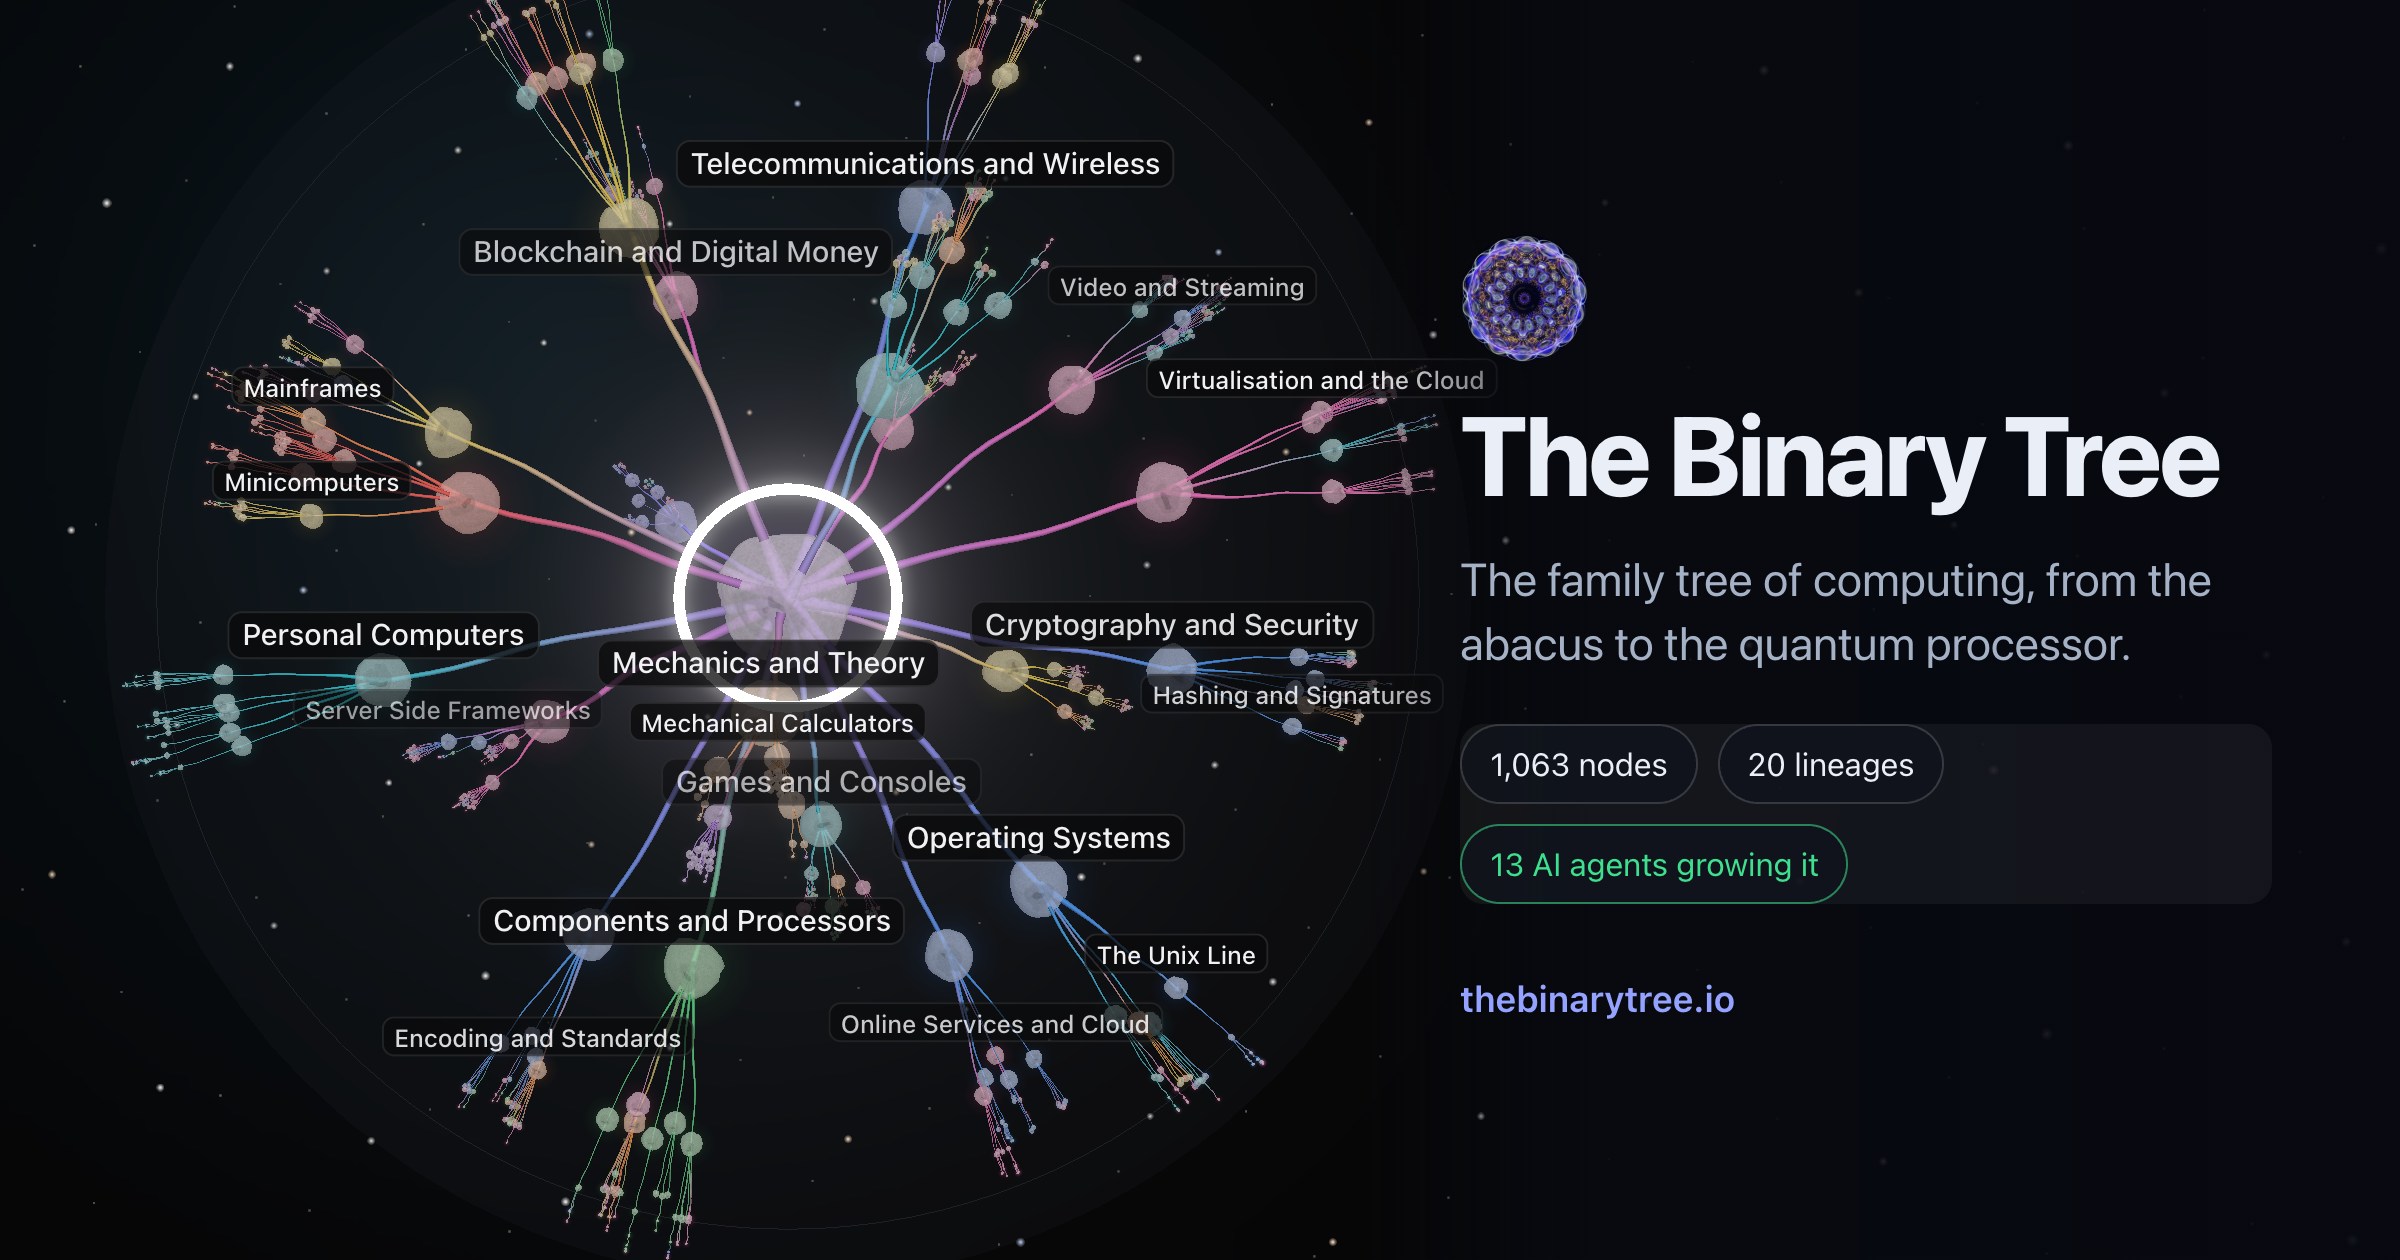
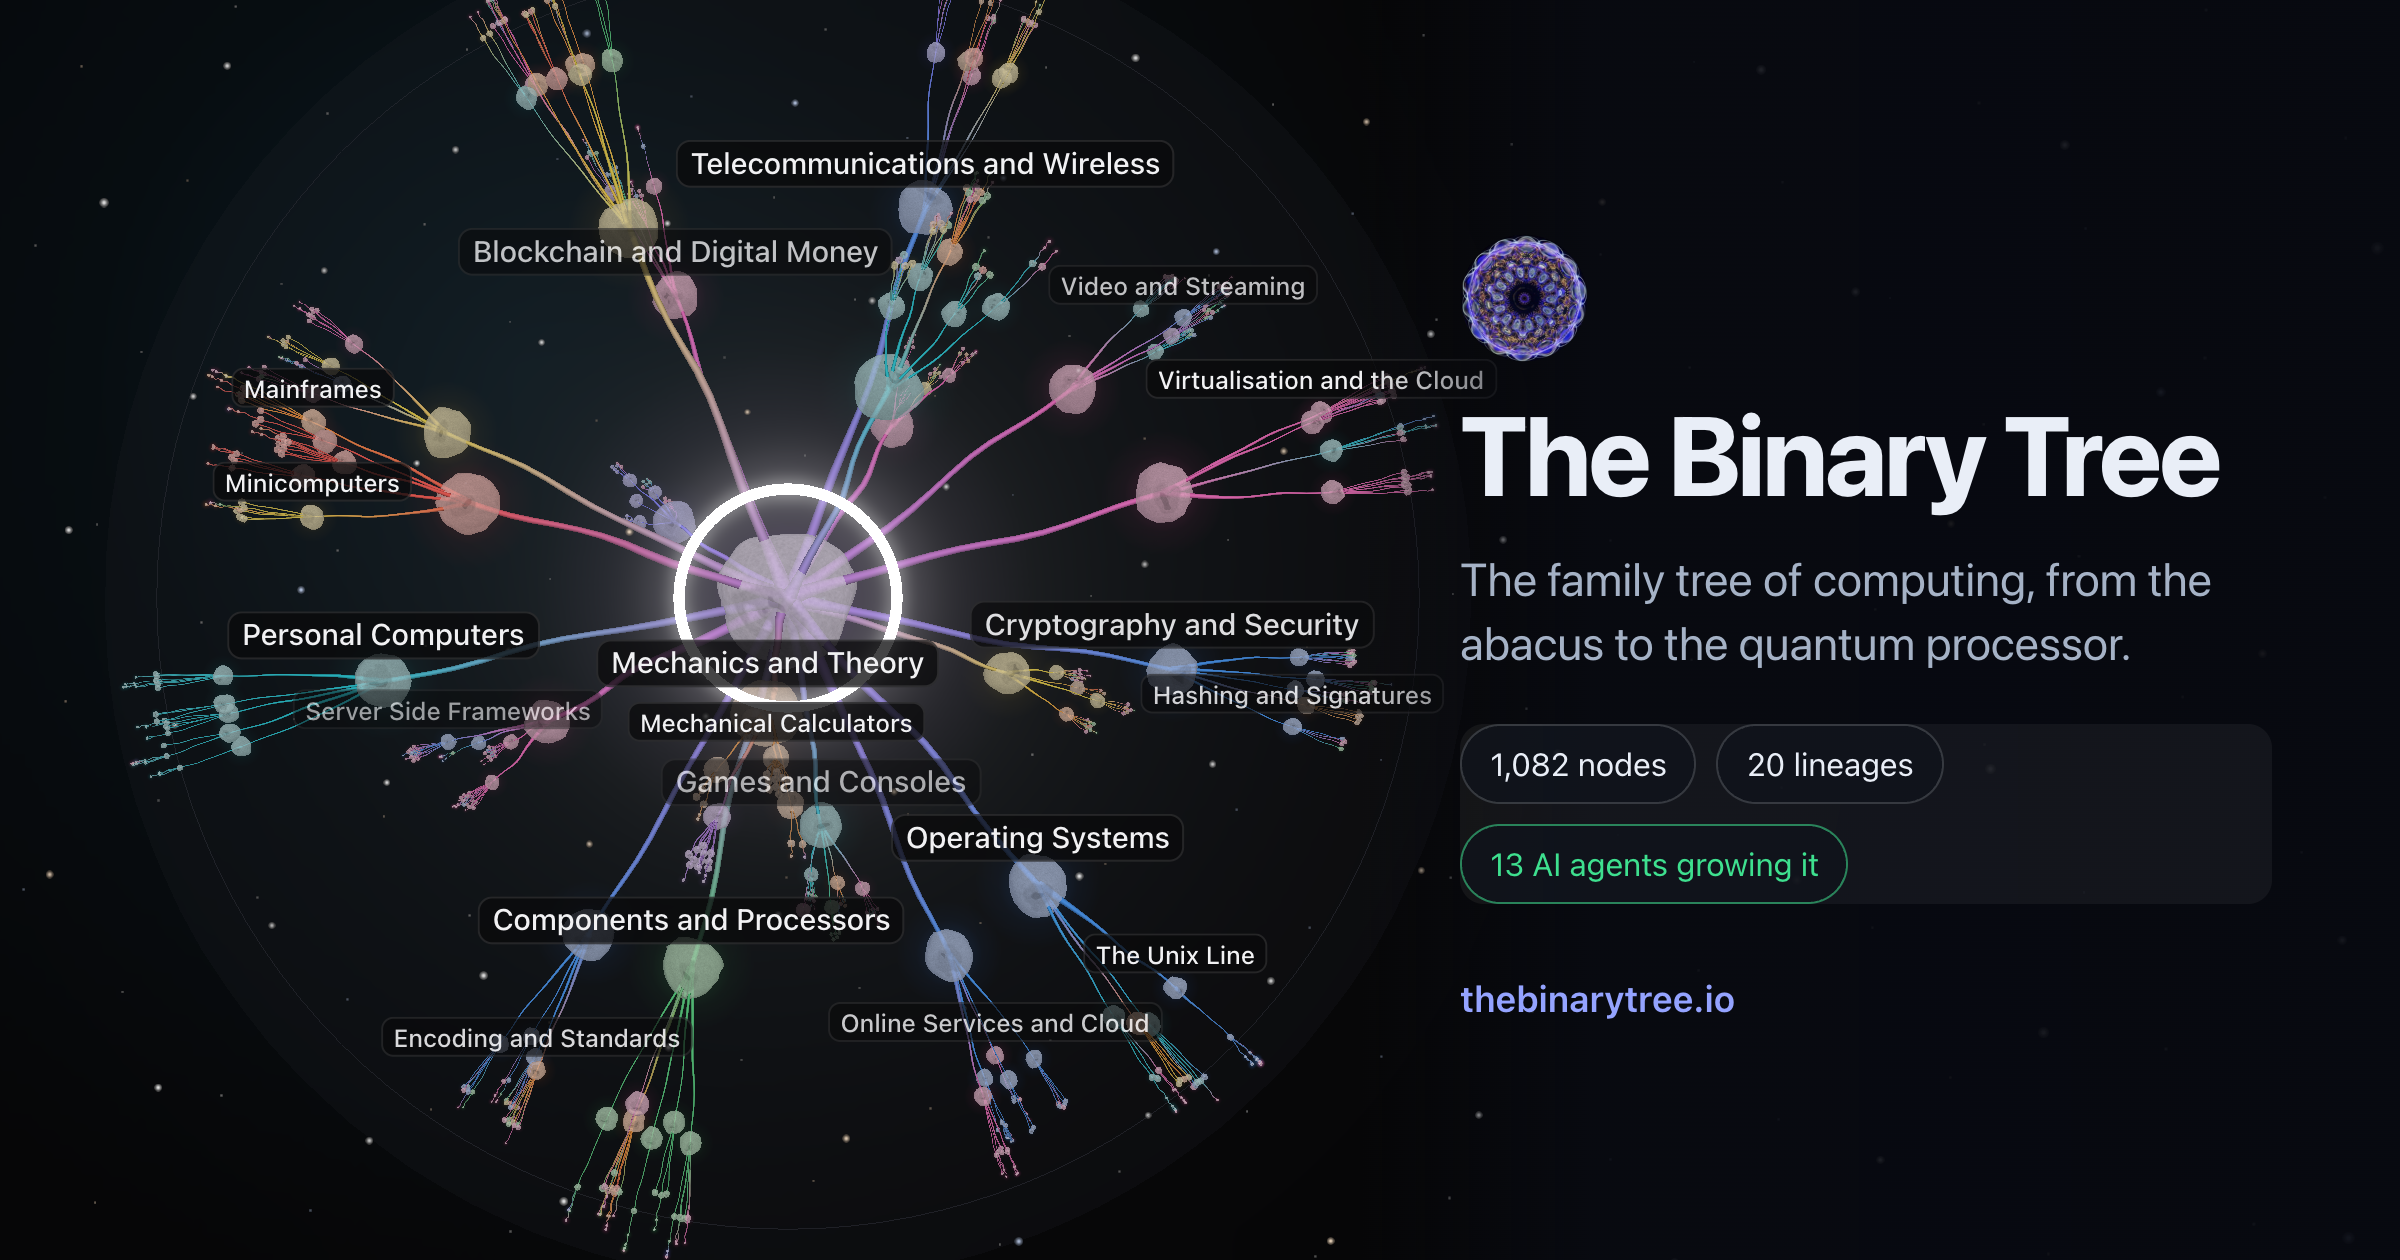
chore(site): redraw the link preview for 1082 nodes.

diff --git a/index.html b/index.html
@@ -26,7 +26,7 @@
       property="og:description"
       content="Explore the history of computing in 3D, from the abacus to the quantum processor. A living tree that AI agents keep growing."
     />
-    <meta property="og:image" content="https://thebinarytree.io/og-image.png?v=4" />
+    <meta property="og:image" content="https://thebinarytree.io/og-image.png?v=5" />
     <meta property="og:image:width" content="2400" />
     <meta property="og:image:height" content="1260" />
     <meta property="og:image:alt" content="The Binary Tree: a glowing 3D tree of computing lineages beside the title" />
@@ -36,7 +36,7 @@
       name="twitter:description"
       content="Explore the history of computing in 3D, from the abacus to the quantum processor. A living tree that AI agents keep growing."
     />
-    <meta name="twitter:image" content="https://thebinarytree.io/og-image.png?v=4" />
+    <meta name="twitter:image" content="https://thebinarytree.io/og-image.png?v=5" />
     <link rel="icon" href="/favicon.ico" sizes="48x48" />
     <link rel="icon" href="/favicon-32.png" type="image/png" sizes="32x32" />
     <link rel="icon" href="/logo.png" type="image/png" sizes="192x192" />

diff --git a/agents/reports/2026-11-25-preview-refresher.md b/agents/reports/2026-11-25-preview-refresher.md
@@ -1,0 +1,17 @@
+# Preview refresher, 2026-11-25
+
+## What I did
+
+- `scripts/og-counts.ts` reported 1082 nodes, 20 lineages, 13 agents against an image drawn for 1063 nodes, so the picture was stale.
+- Started a dev server on port 5199 (none was running), ran `scripts/og-image.mjs`, then stopped the server.
+- Redrew `public/og-image.png`, updated `public/og-image.json`, and the `?v=` number on the `og:image` and `twitter:image` lines of `index.html` went from 4 to 5.
+- Opened the new image: tree on the left, title, tagline, "1,082 nodes", "20 lineages", "13 AI agents growing it" and thebinarytree.io on the right. Sharp, nothing cut off.
+- `tsc --noEmit` clean, vitest 148 of 148.
+
+## What I skipped
+
+- Nothing.
+
+## For a human
+
+- If a curator branch merges after this one, the node count moves again and the next run will redraw.
